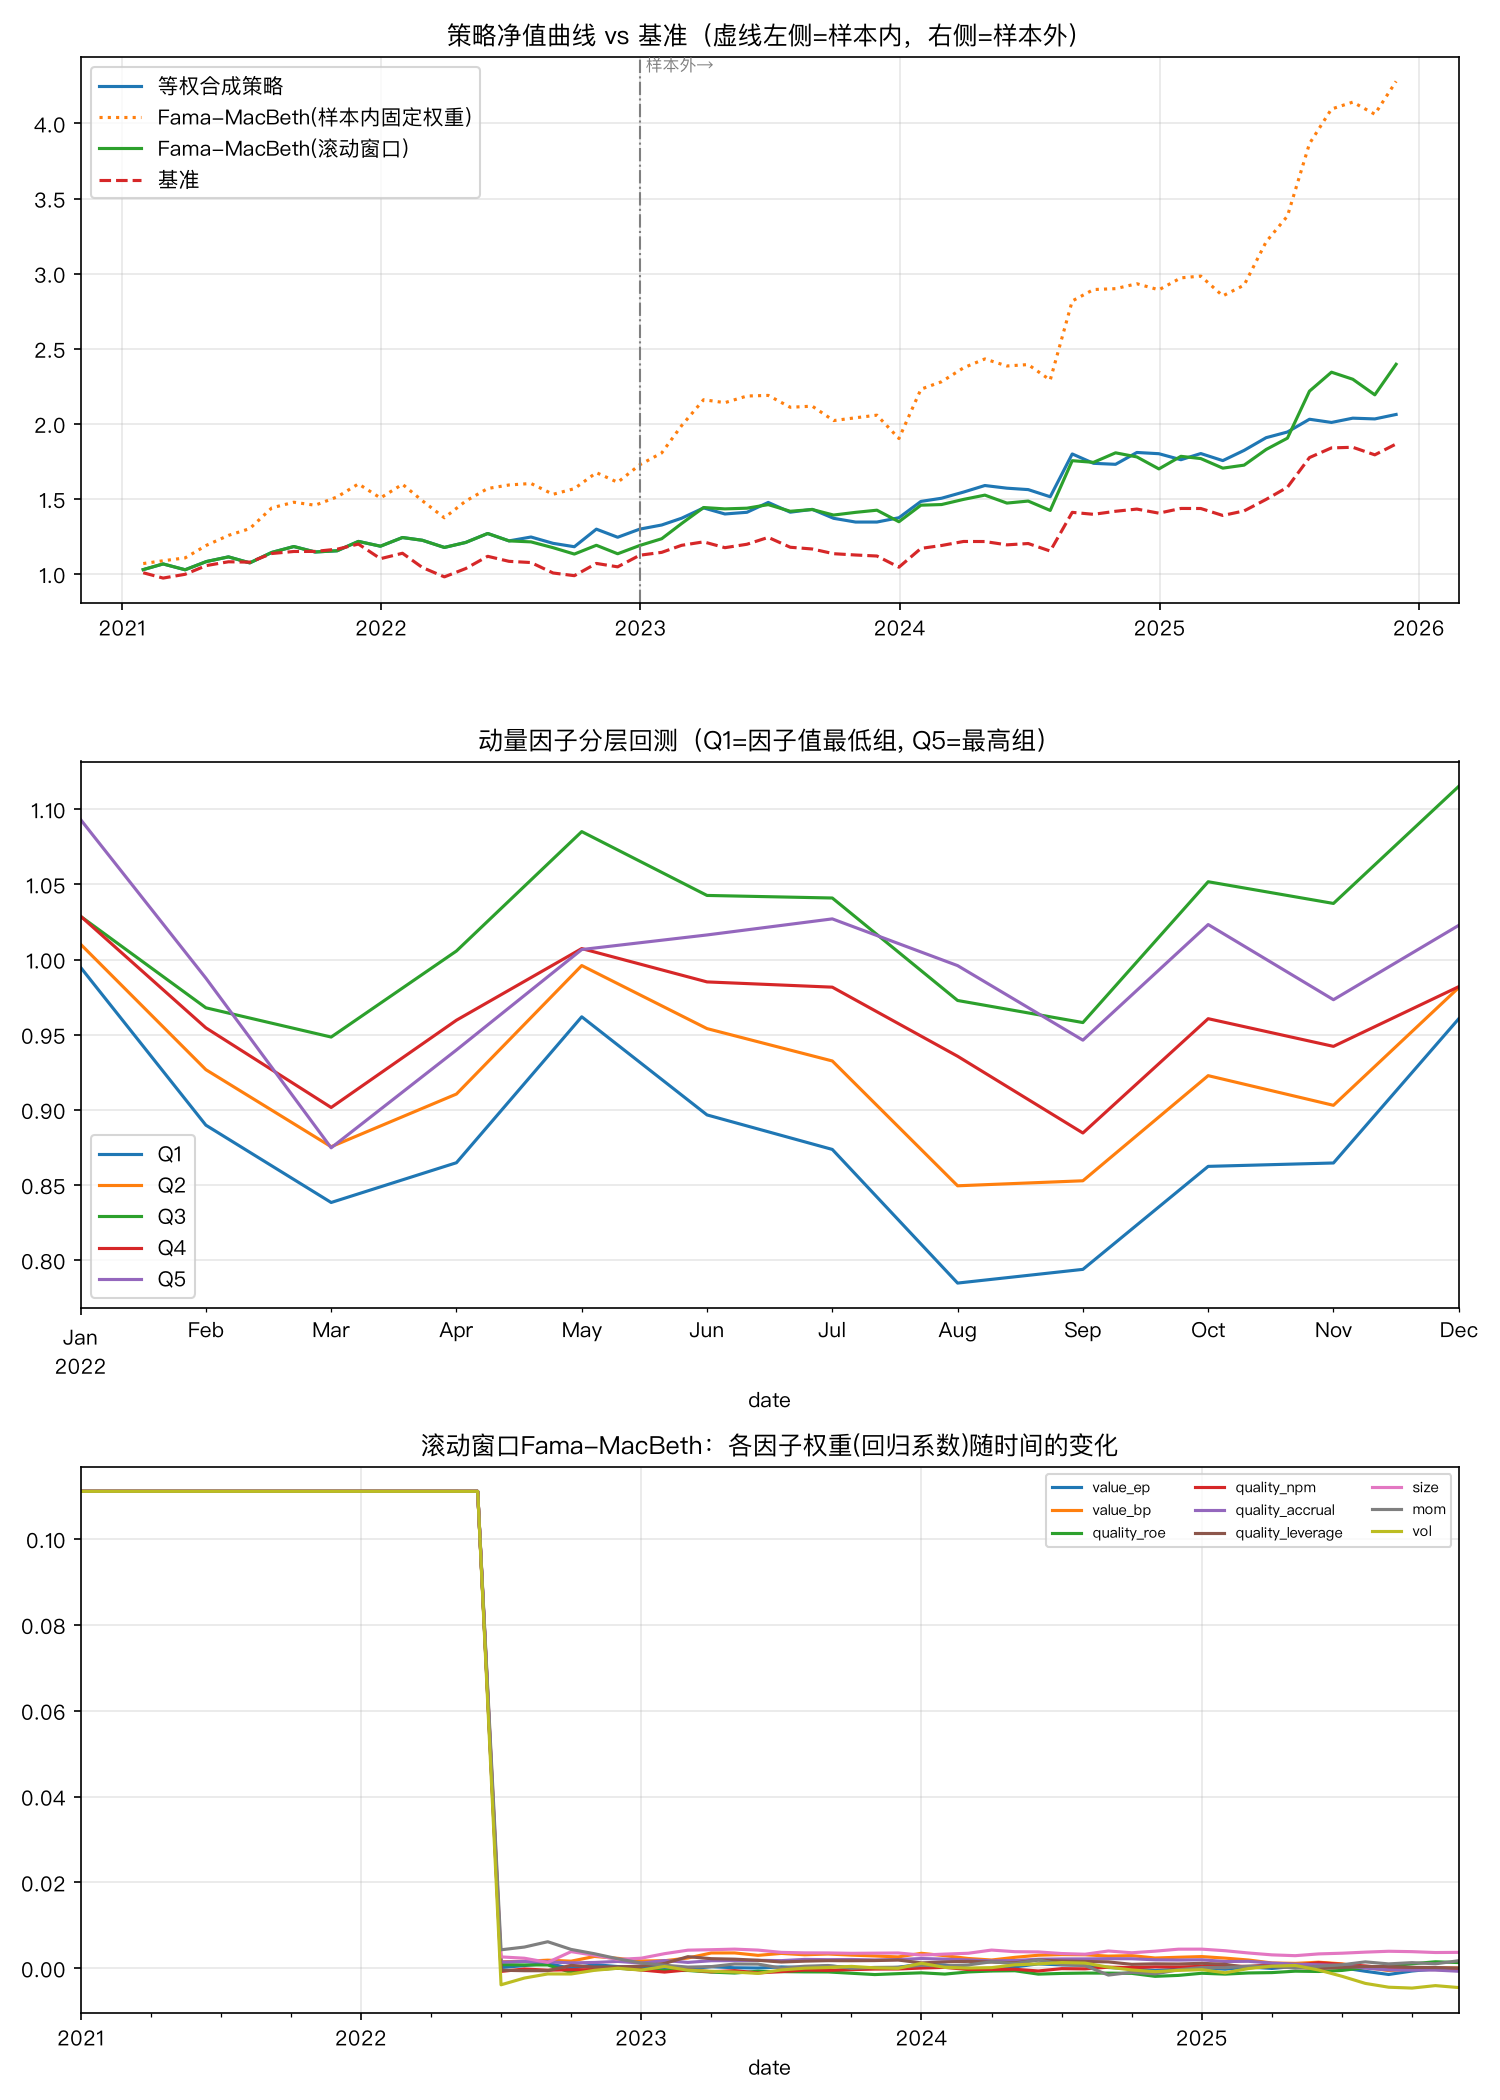
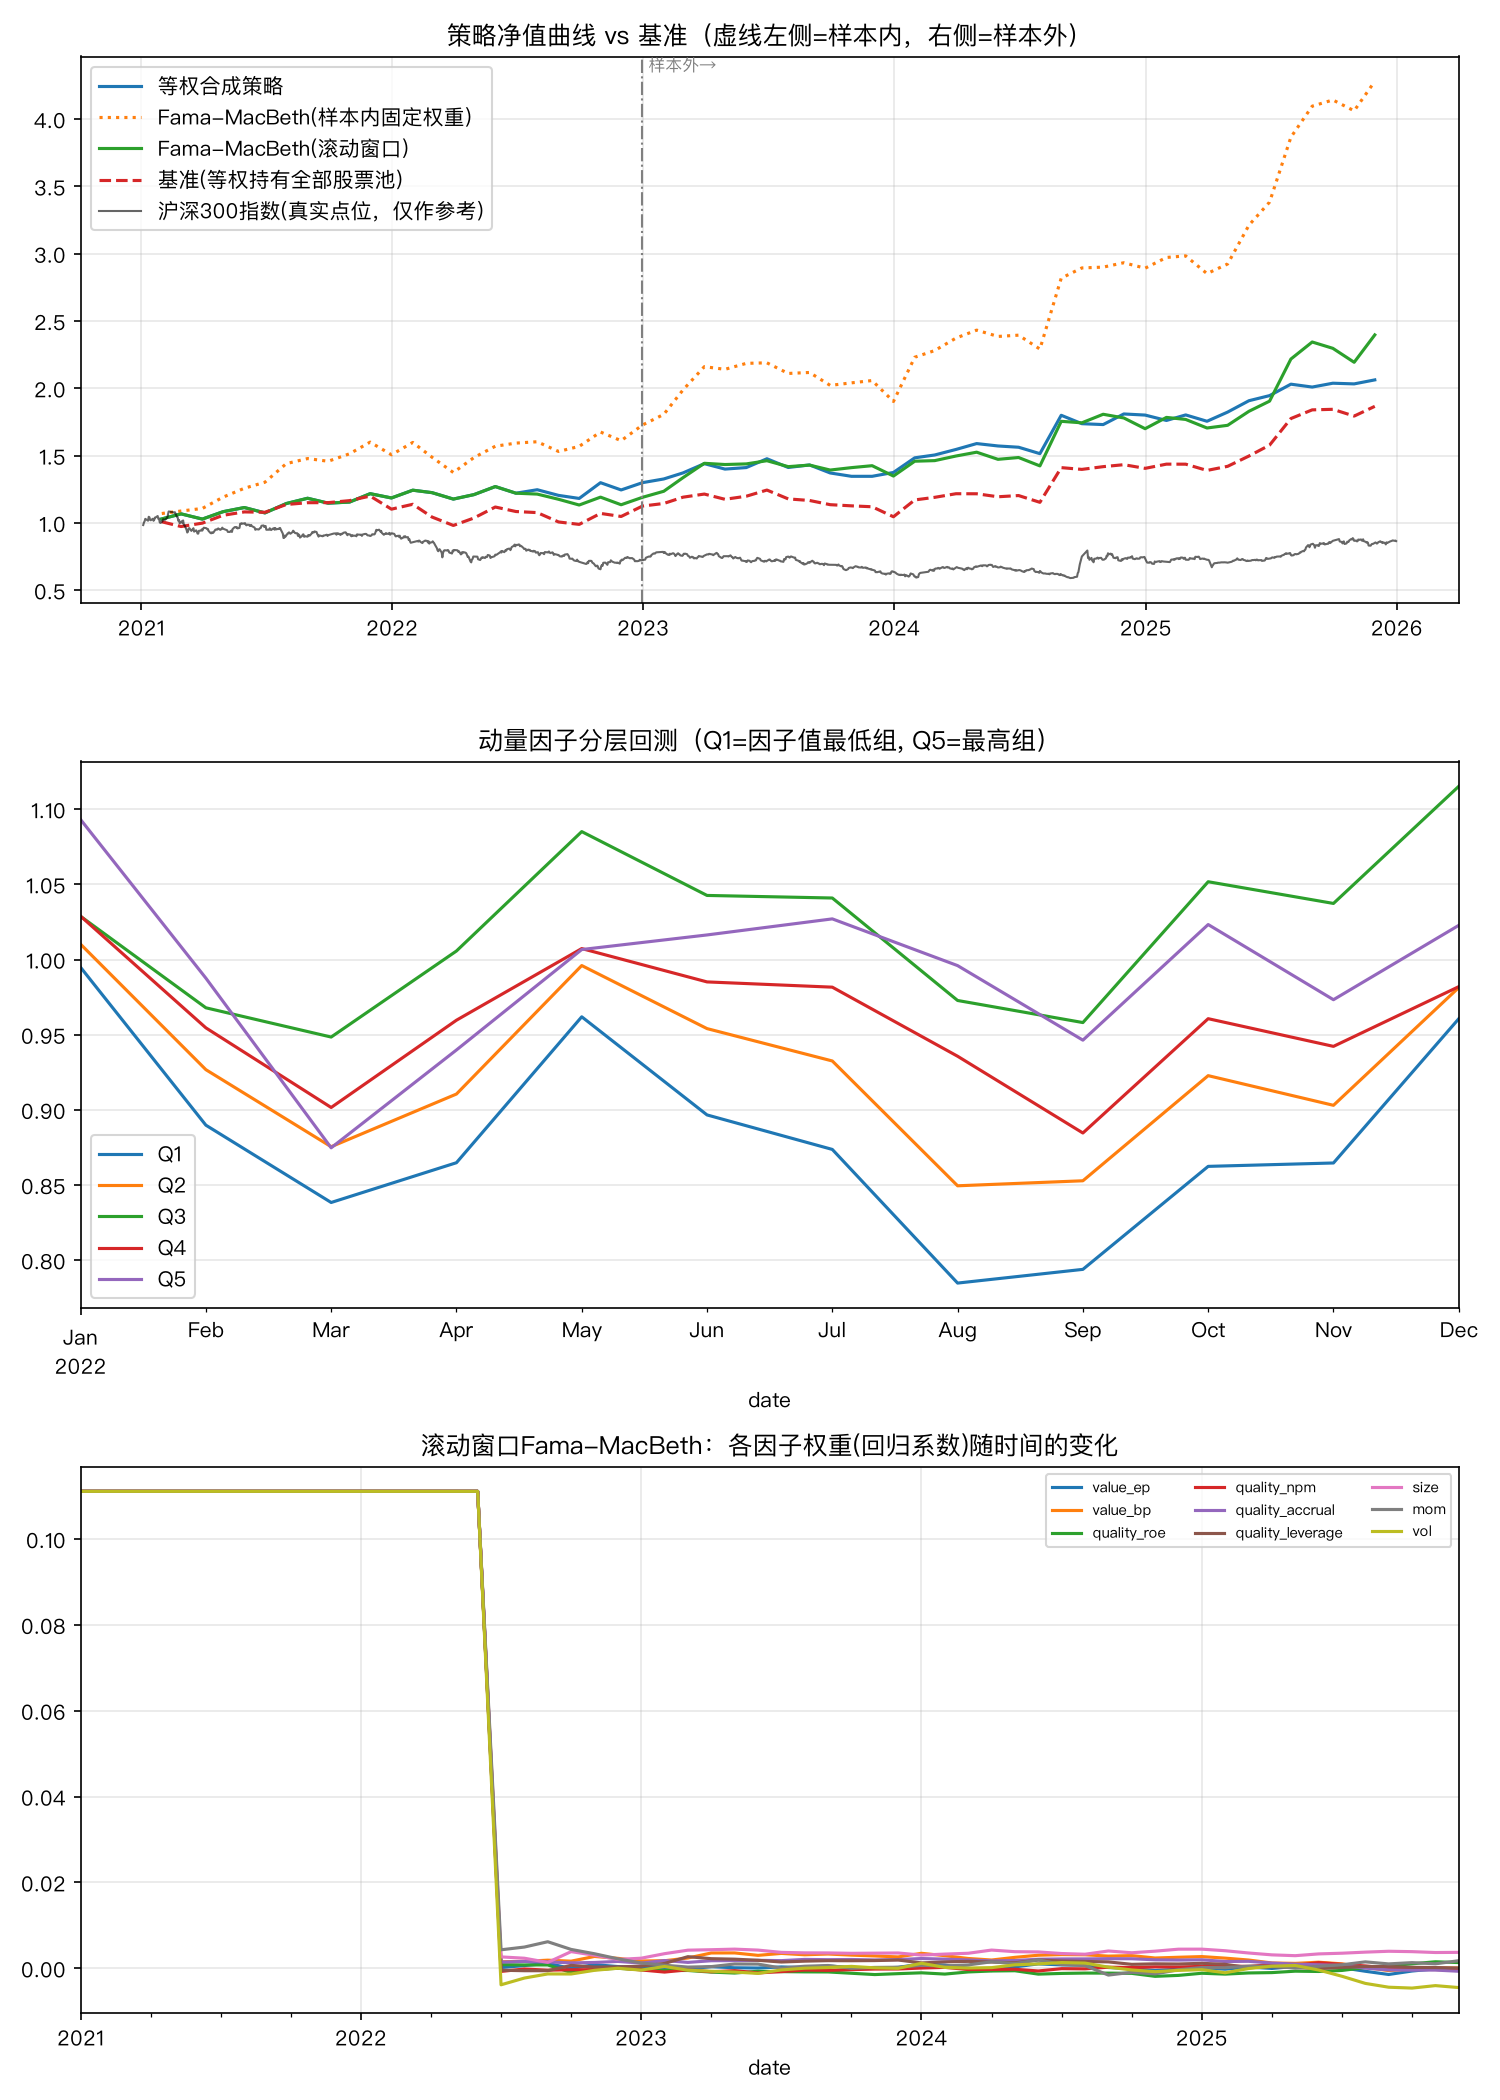
加沪深300真实指数参考线，揭示等权基准与真实指数的巨大差距
- 图表新增沪深300真实点位(sina)参考线，仅作可视化参考，不参与选股/回测
- 发现2021-2025真实指数下跌12%，而项目一直用的等权基准上涨86%，差距主要
  来自A股这几年小盘股跑赢大盘股的风格，与选股能力无关，已记录进已知局限

diff --git a/factor_backtest.py b/factor_backtest.py
@@ -68,6 +68,7 @@ def get_data_synthetic(n_stocks=N_STOCKS, start=START_DATE, end=END_DATE,
       mktcap_df  : 日频市值
       fin_df     : 月度财务指标 (date, stock, pe, pb, roe, npm, accrual, leverage)
       industries : {股票代码: 行业标签}
+      index_series : 日频"指数"参考线 (这里用全部模拟股票的等权均价近似)
 
     为了让"因子检验"这一步有意义，这里人为给每只股票一个 true_alpha，
     使得低PE/低PB/高ROE的股票未来收益略高——这样你能在IC检验里看到
@@ -105,7 +106,9 @@ def get_data_synthetic(n_stocks=N_STOCKS, start=START_DATE, end=END_DATE,
             records.append([m, s, pe, pb, roe, npm, accrual, leverage])
     fin_df = pd.DataFrame(records, columns=["date", "stock", "pe", "pb", "roe", "npm", "accrual", "leverage"])
 
-    return price_df, mktcap_df, fin_df, industries
+    index_series = price_df.mean(axis=1)
+
+    return price_df, mktcap_df, fin_df, industries, index_series
 
 
 def _sina_symbol(code):
@@ -201,6 +204,7 @@ def get_data_real(n_stocks=REAL_DATA_N_STOCKS, start=START_DATE, end=END_DATE):
       - ROE/销售净利率/资产负债率/每股收益/每股经营现金流（单季度，同一个接口一次拿全，
         用来拼质量因子）：ak.stock_financial_abstract_ths
       - 行业分类：ak.stock_industry_clf_hist_sw（申万一级行业，失败则降级跳过行业中性化）
+      - 沪深300指数真实点位：ak.stock_zh_index_daily（新浪，仅用于图表参考线，不参与选股/回测计算）
 
     首次运行会请求网络（几百只股票 x 3-4个接口，可能需要几分钟到十几分钟），
     每只股票的原始数据会缓存到 ./data_cache/，重复运行会直接读缓存、秒开。
@@ -315,7 +319,16 @@ def get_data_real(n_stocks=REAL_DATA_N_STOCKS, start=START_DATE, end=END_DATE):
     print("STEP 1d: 获取行业分类...")
     industries = _fetch_industry_map(list(price_df.columns))
 
-    return price_df, mktcap_df, fin_df, industries
+    print("STEP 1e: 获取沪深300指数真实点位（仅作图表参考线，不参与选股/回测）...")
+    try:
+        idx = _cached_csv("index_000300.csv", lambda: ak.stock_zh_index_daily(symbol="sh000300"))
+        idx["date"] = pd.to_datetime(idx["date"])
+        index_series = idx.set_index("date")["close"].sort_index().loc[start:end]
+    except Exception as e:
+        print(f"  [警告] 沪深300指数点位获取失败（{type(e).__name__}: {e}），图表里将不显示这条参考线")
+        index_series = pd.Series(dtype=float)
+
+    return price_df, mktcap_df, fin_df, industries, index_series
 
 
 # ============================================================
@@ -694,9 +707,9 @@ def main():
     print("STEP 1: 获取数据")
     print("=" * 60)
     if USE_REAL_DATA:
-        price_df, mktcap_df, fin_df, industries = get_data_real()
+        price_df, mktcap_df, fin_df, industries, index_series = get_data_real()
     else:
-        price_df, mktcap_df, fin_df, industries = get_data_synthetic()
+        price_df, mktcap_df, fin_df, industries, index_series = get_data_synthetic()
     print(f"股票数量: {price_df.shape[1]}, 交易日数量: {price_df.shape[0]}")
 
     print("\n" + "=" * 60)
@@ -801,7 +814,15 @@ def main():
     axes[0].plot(nav_ew.index, nav_ew.values, label="等权合成策略")
     axes[0].plot(nav_fm_fixed.index, nav_fm_fixed.values, label="Fama-MacBeth(样本内固定权重)", linestyle=":")
     axes[0].plot(nav_fm_roll.index, nav_fm_roll.values, label="Fama-MacBeth(滚动窗口)")
-    axes[0].plot(nav_bench.index, nav_bench.reindex(nav_ew.index).values, label="基准", linestyle="--")
+    axes[0].plot(nav_bench.index, nav_bench.reindex(nav_ew.index).values, label="基准(等权持有全部股票池)", linestyle="--")
+    if len(index_series) > 0:
+        # 归一化到和其它策略同一个起点(1.0)，方便直接比较涨跌幅；用asof而不是精确匹配日期，
+        # 因为指数是日频、策略净值是月末频率，两者的日期不会完全对齐。
+        idx_base = index_series.asof(nav_ew.index[0])
+        if pd.notna(idx_base) and idx_base > 0:
+            index_nav = index_series / idx_base
+            axes[0].plot(index_nav.index, index_nav.values, label="沪深300指数(真实点位，仅作参考)",
+                         color="black", linewidth=1, alpha=0.6)
     axes[0].axvline(pd.Timestamp(IN_SAMPLE_END), color="gray", linestyle="-.", linewidth=1)
     axes[0].text(pd.Timestamp(IN_SAMPLE_END), axes[0].get_ylim()[1], " 样本外→",
                  fontsize=8, color="gray", va="top")

diff --git a/README.md b/README.md
@@ -75,11 +75,13 @@
 | PE(TTM) / PB | `stock_zh_valuation_baidu` | 百度股市通 |
 | ROE/销售净利率/资产负债率/每股收益/每股经营现金流（单季度，同一接口一次拿全） | `stock_financial_abstract_ths` | 同花顺 |
 | 行业分类 | `stock_industry_clf_hist_sw` | 申万（部分网络环境下不稳定，失败时自动降级跳过行业中性化） |
+| 沪深300指数真实点位（仅图表参考线，不参与选股/回测） | `stock_zh_index_daily` | 新浪财经 |
 
 财务数据额外做了45天公告滞后处理，避免用到还未公布的报表数据。
 
 ## 已知局限
 
+- **"基准"是等权代理，不是真实沪深300指数，两者差距很大**：图表里加了一条沪深300**真实点位**的参考线(灰色)才发现——2021-2025这段时间，真实沪深300指数是**下跌12%**的（市值加权，被权重股拖累），而本项目一直用来对比的"基准"（等权持有全部300只成分股）却上涨了86%。这个巨大差距主要来自A股这几年"小盘股跑赢大盘股"的风格，跟选股能力无关。这意味着报告里"跑赢基准"的"基准"，实际含金量要打折扣——真要对标一个普通投资者能买到的沪深300指数基金，参照系应该是那条下跌的灰线，而不是等权代理，所有策略相对"真实指数"的超额收益会比相对"等权基准"的数字大得多，但这更多是"沾了小盘股的光"而不是选股模型本身的功劳
 - **只有一个样本外窗口**：2023-2025这一段样本外表现很强，但仅凭一次样本外测试无法完全排除"这段时期恰好对这套方法友好"的可能，更严谨的做法是滚动切多段样本内/样本外反复验证（比如再往前推、把IN_SAMPLE_END挪到不同位置重跑几次），这是目前最值得补的一块
 - **简单方法（等权合成）在这段样本外并没有跑赢基准**（信息比率-0.22），说明"跑赢基准"主要归功于Fama-MacBeth回归带来的因子组合方式，而不是这几个因子本身有多神奇——面试时如果被问"是不是随便找几个因子就能有这个效果"，诚实的答案是"不是，合成方法的选择影响很大"
 - **幸存者偏差**：用的是当前沪深300成分股名单去跑历史回测，历史上曾被剔除/退市的成分股没有被包含，回测结果可能偏乐观
